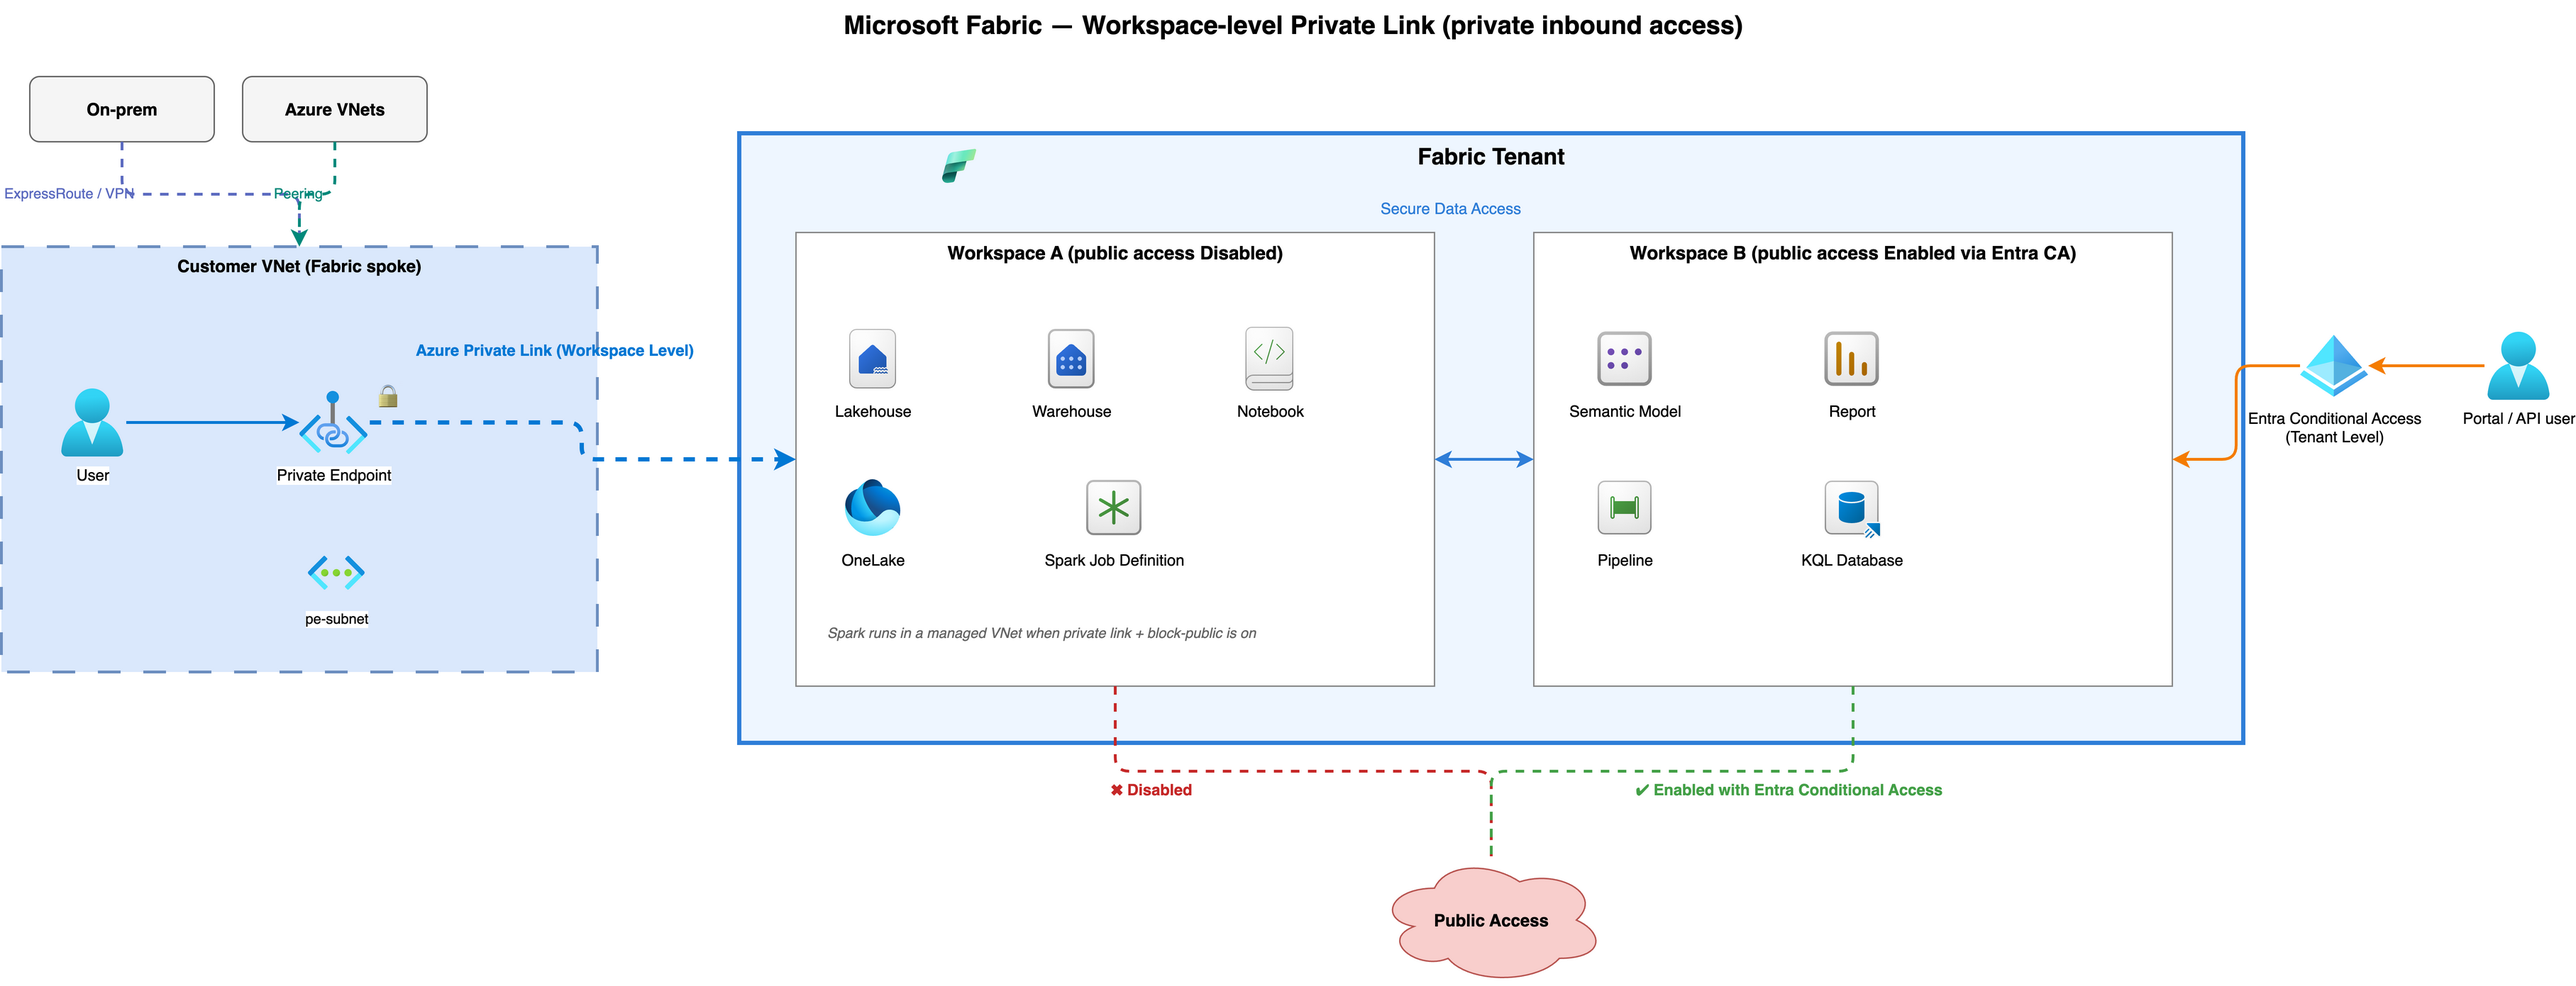
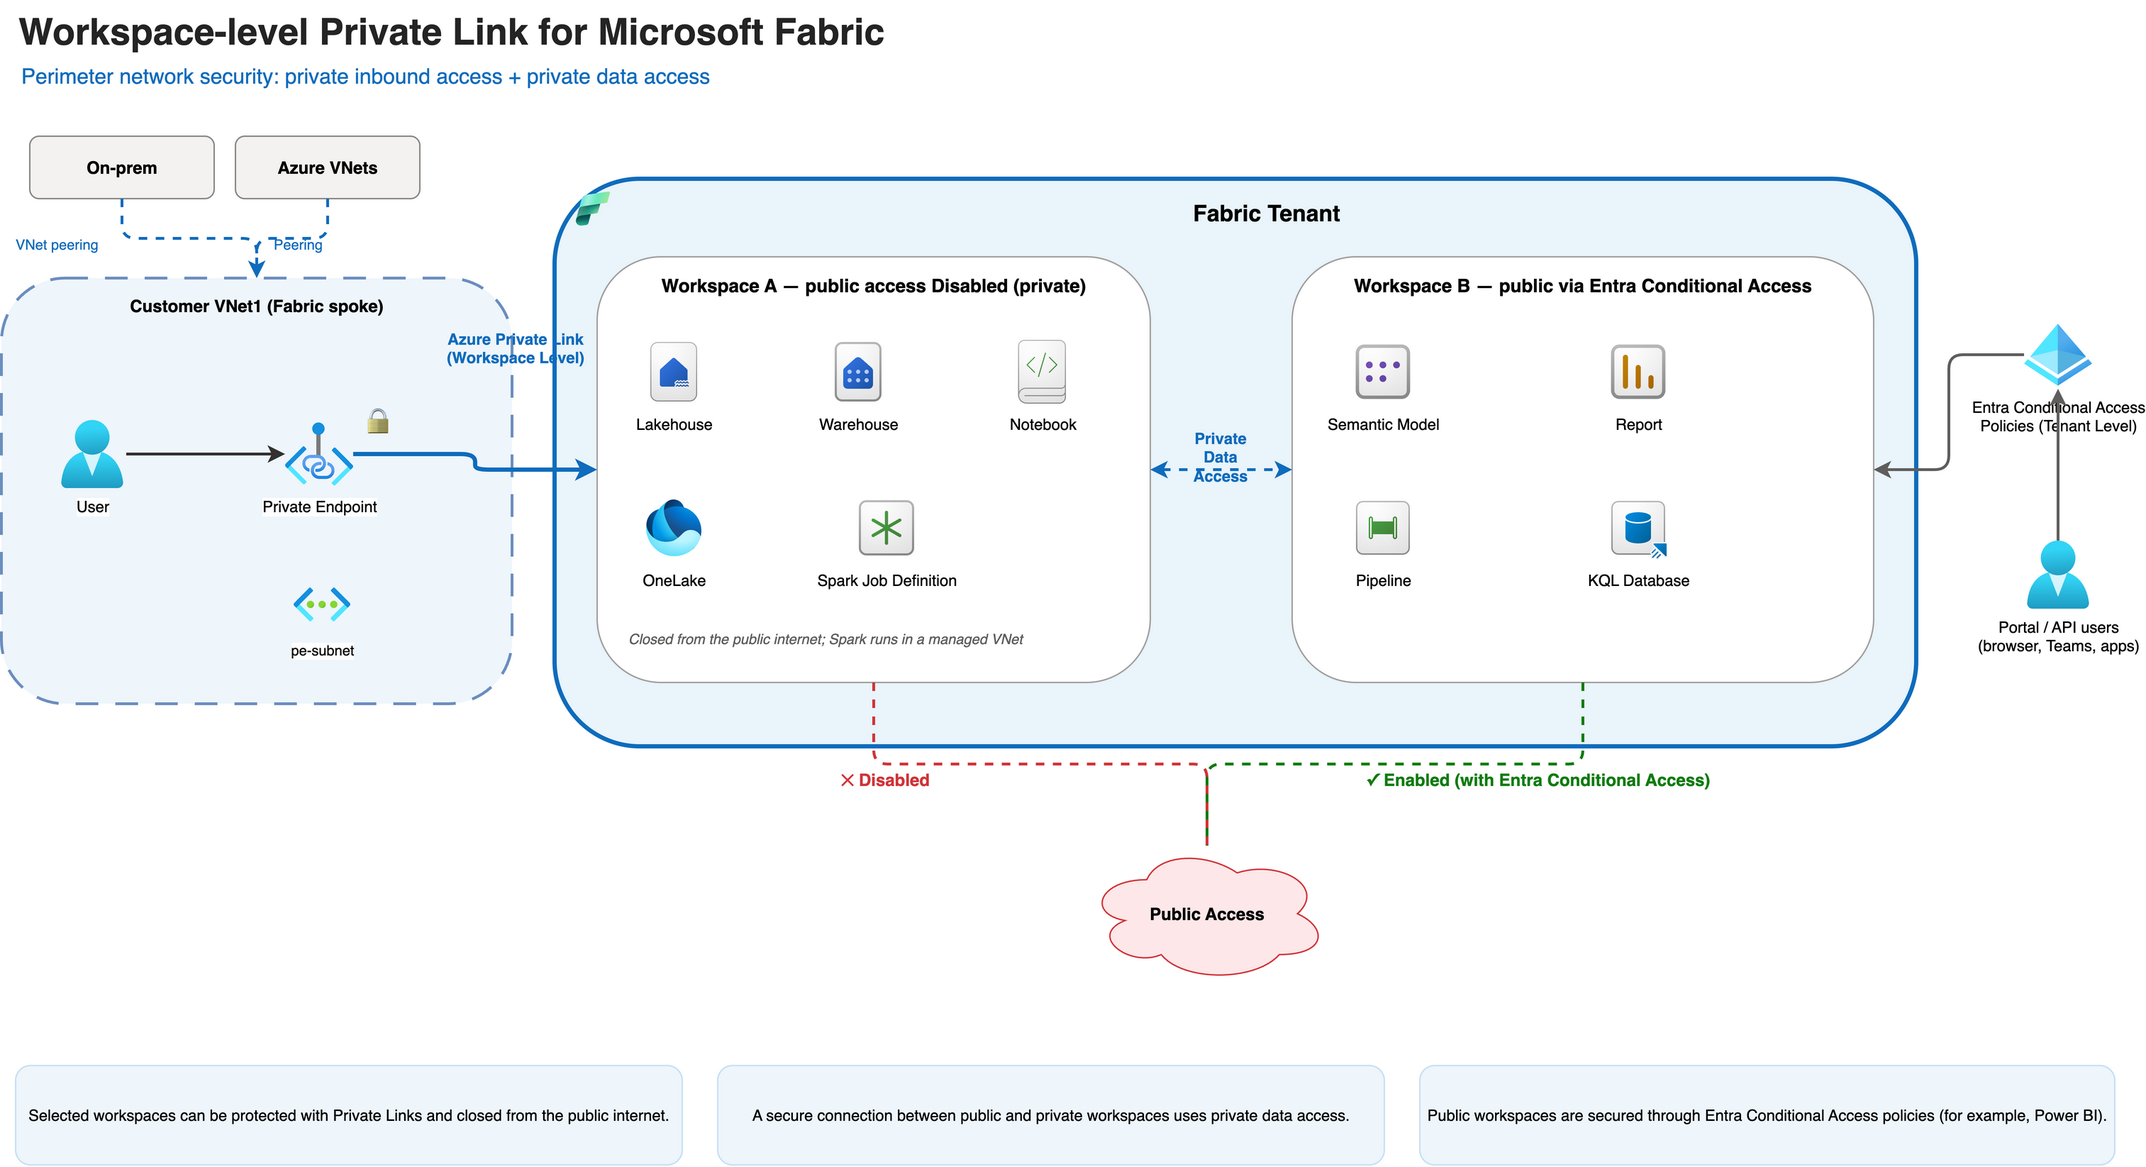
docs(diagram): redesign workspace Private Link topology (MS-style, peering LZ)
Rework gen-fabric-diagram.py to a polished Microsoft-style layout: title/subtitle,
On-prem + Azure VNets via VNet peering to Customer VNet1 (Fabric spoke) private
endpoint, Azure Private Link (Workspace Level) into the Fabric Tenant, Workspace A
(private, public access Disabled) and Workspace B (public via Entra CA) linked by
Private Data Access, Public Access globe (Disabled/Enabled), Entra Conditional
Access on the tenant edge, and explanatory captions. Regenerated drawio + rendered
PNG (docs/images/05-fabric-private-link.png) used by the README Topology target.

diff --git a/scripts/gen-fabric-diagram.py b/scripts/gen-fabric-diagram.py
@@ -50,63 +50,71 @@ def az_icon(cell_id, label, az_path, x, y, w=48, h=48, fs=11):
 
 cells = []
 
-# title
-cells.append('<mxCell id="title" value="Microsoft Fabric — Workspace-level Private Link (private inbound access)" style="text;html=1;fontSize=18;fontStyle=1;align=center;" vertex="1" parent="1"><mxGeometry x="500" y="16" width="900" height="30" as="geometry"/></mxCell>')
+# ---- title + subtitle ----
+cells.append('<mxCell id="title" value="Workspace-level Private Link for Microsoft Fabric" style="text;html=1;fontSize=26;fontStyle=1;align=left;fontColor=#242424;" vertex="1" parent="1"><mxGeometry x="60" y="24" width="1100" height="34" as="geometry"/></mxCell>')
+cells.append('<mxCell id="subtitle" value="Perimeter network security: private inbound access + private data access" style="text;html=1;fontSize=15;align=left;fontColor=#0f6cbd;" vertex="1" parent="1"><mxGeometry x="62" y="62" width="1100" height="24" as="geometry"/></mxCell>')
 
-# sources
-cells.append('<mxCell id="onprem" value="On-prem" style="rounded=1;whiteSpace=wrap;html=1;fontSize=12;fontStyle=1;fillColor=#f5f5f5;strokeColor=#666666;" vertex="1" parent="1"><mxGeometry x="60" y="70" width="130" height="46" as="geometry"/></mxCell>')
-cells.append('<mxCell id="azvnets" value="Azure VNets" style="rounded=1;whiteSpace=wrap;html=1;fontSize=12;fontStyle=1;fillColor=#f5f5f5;strokeColor=#666666;" vertex="1" parent="1"><mxGeometry x="210" y="70" width="130" height="46" as="geometry"/></mxCell>')
+# ---- sources ----
+cells.append('<mxCell id="onprem" value="On-prem" style="rounded=1;whiteSpace=wrap;html=1;fontSize=12;fontStyle=1;fillColor=#f3f2f1;strokeColor=#8a8886;" vertex="1" parent="1"><mxGeometry x="70" y="120" width="130" height="44" as="geometry"/></mxCell>')
+cells.append('<mxCell id="azvnets" value="Azure VNets" style="rounded=1;whiteSpace=wrap;html=1;fontSize=12;fontStyle=1;fillColor=#f3f2f1;strokeColor=#8a8886;" vertex="1" parent="1"><mxGeometry x="215" y="120" width="130" height="44" as="geometry"/></mxCell>')
 
-# customer vnet (fabric spoke)
-cells.append('<mxCell id="custvnet" value="Customer VNet (Fabric spoke)" style="rounded=0;whiteSpace=wrap;html=1;verticalAlign=top;fontSize=12;fontStyle=1;dashed=1;dashPattern=8 8;strokeWidth=2;fillColor=#dae8fc;strokeColor=#6c8ebf;" vertex="1" parent="1"><mxGeometry x="40" y="190" width="420" height="300" as="geometry"/></mxCell>')
-cells.append(az_icon("user", "User", "identity/Users.svg", 80, 290))
-cells.append(az_icon("pe", "Private Endpoint", "networking/Private_Link.svg", 250, 290))
-cells.append('<mxCell id="lock" value="🔒" style="text;html=1;fontSize=18;align=center;" vertex="1" parent="1"><mxGeometry x="300" y="278" width="24" height="24" as="geometry"/></mxCell>')
-cells.append(az_icon("vneticon", "pe-subnet", "networking/Virtual_Networks.svg", 256, 400, 40, 40, 10))
+# ---- customer vnet (fabric spoke) ----
+cells.append('<mxCell id="custvnet" value="Customer VNet1 (Fabric spoke)" style="rounded=1;whiteSpace=wrap;html=1;verticalAlign=top;fontSize=12;fontStyle=1;dashed=1;dashPattern=8 6;strokeWidth=2;fillColor=#eef6fc;strokeColor=#6c8ebf;spacingTop=6;" vertex="1" parent="1"><mxGeometry x="50" y="220" width="360" height="300" as="geometry"/></mxCell>')
+cells.append(az_icon("user", "User", "identity/Users.svg", 90, 320))
+cells.append(az_icon("pe", "Private Endpoint", "networking/Private_Link.svg", 250, 320))
+cells.append('<mxCell id="lock" value="&#128274;" style="text;html=1;fontSize=20;align=center;" vertex="1" parent="1"><mxGeometry x="302" y="302" width="26" height="26" as="geometry"/></mxCell>')
+cells.append(az_icon("vneticon", "pe-subnet", "networking/Virtual_Networks.svg", 256, 430, 40, 40, 10))
 
-# right-side identity
-cells.append(az_icon("euser", "Portal / API user", "identity/Users.svg", 1790, 250))
-cells.append(az_icon("entra", "Entra Conditional Access&#10;(Tenant Level)", "identity/Azure_Active_Directory.svg", 1660, 250))
+# ---- right-side identity + clients ----
+cells.append(az_icon("entra", "Entra Conditional Access&#10;Policies (Tenant Level)", "identity/Azure_Active_Directory.svg", 1476, 250, 48, 48, 11))
+cells.append(az_icon("euser", "Portal / API users&#10;(browser, Teams, apps)", "identity/Users.svg", 1476, 405, 48, 48, 11))
 
-# fabric tenant
-cells.append('<mxCell id="fabric" value="Fabric Tenant" style="rounded=0;whiteSpace=wrap;html=1;verticalAlign=top;fontSize=16;fontStyle=1;fillColor=#eef6ff;strokeColor=#2f7ed8;strokeWidth=3;" vertex="1" parent="1"><mxGeometry x="560" y="110" width="1060" height="430" as="geometry"/></mxCell>')
-cells.append(icon("flogo", "", "fabric_20_color.svg", 700, 118, 30, 30))
+# ---- fabric tenant ----
+cells.append('<mxCell id="fabric" value="Fabric Tenant" style="rounded=1;whiteSpace=wrap;html=1;verticalAlign=top;fontSize=16;fontStyle=1;fillColor=#e9f4fb;strokeColor=#0f6cbd;strokeWidth=3;spacingLeft=44;spacingTop=8;" vertex="1" parent="1"><mxGeometry x="440" y="150" width="960" height="400" as="geometry"/></mxCell>')
+cells.append(icon("flogo", "", "fabric_20_color.svg", 452, 156, 30, 30))
 
-# workspace A
-cells.append('<mxCell id="wsA" value="Workspace A  (public access Disabled)" style="rounded=0;whiteSpace=wrap;html=1;verticalAlign=top;fontSize=13;fontStyle=1;fillColor=#ffffff;strokeColor=#888888;" vertex="1" parent="1"><mxGeometry x="600" y="180" width="450" height="320" as="geometry"/></mxCell>')
-cells.append(icon("a_lh", "Lakehouse", "lakehouse_64_item.svg", 630, 245))
-cells.append(icon("a_wh", "Warehouse", "data_warehouse_32_item.svg", 770, 245))
-cells.append(icon("a_nb", "Notebook", "notebook_64_item.svg", 910, 245))
-cells.append(icon("a_ol", "OneLake", "one_lake_24_color.svg", 630, 350))
-cells.append(icon("a_sj", "Spark Job Definition", "spark_job_direction_32_item.svg", 800, 350))
-cells.append('<mxCell id="a_note" value="Spark runs in a managed VNet when private link + block-public is on" style="text;html=1;fontSize=10;fontStyle=2;fontColor=#666666;align=left;" vertex="1" parent="1"><mxGeometry x="620" y="450" width="420" height="30" as="geometry"/></mxCell>')
+# ---- workspace A (private) ----
+cells.append('<mxCell id="wsA" value="Workspace A &#8212; public access Disabled (private)" style="rounded=1;whiteSpace=wrap;html=1;verticalAlign=top;fontSize=13;fontStyle=1;fillColor=#ffffff;strokeColor=#a19f9d;spacingTop=6;" vertex="1" parent="1"><mxGeometry x="470" y="205" width="390" height="300" as="geometry"/></mxCell>')
+cells.append(icon("a_lh", "Lakehouse", "lakehouse_64_item.svg", 500, 262))
+cells.append(icon("a_wh", "Warehouse", "data_warehouse_32_item.svg", 630, 262))
+cells.append(icon("a_nb", "Notebook", "notebook_64_item.svg", 760, 262))
+cells.append(icon("a_ol", "OneLake", "one_lake_24_color.svg", 500, 372))
+cells.append(icon("a_sj", "Spark Job Definition", "spark_job_direction_32_item.svg", 650, 372))
+cells.append('<mxCell id="a_note" value="Closed from the public internet; Spark runs in a managed VNet" style="text;html=1;fontSize=10;fontStyle=2;fontColor=#605e5c;align=left;" vertex="1" parent="1"><mxGeometry x="490" y="462" width="360" height="30" as="geometry"/></mxCell>')
 
-# workspace B
-cells.append('<mxCell id="wsB" value="Workspace B  (public access Enabled via Entra CA)" style="rounded=0;whiteSpace=wrap;html=1;verticalAlign=top;fontSize=13;fontStyle=1;fillColor=#ffffff;strokeColor=#888888;" vertex="1" parent="1"><mxGeometry x="1120" y="180" width="450" height="320" as="geometry"/></mxCell>')
-cells.append(icon("b_sm", "Semantic Model", "semantic_model_20_item.svg", 1160, 245))
-cells.append(icon("b_rp", "Report", "report_20_item.svg", 1320, 245))
-cells.append(icon("b_pl", "Pipeline", "pipeline_48_item.svg", 1160, 350))
-cells.append(icon("b_kql", "KQL Database", "kql_database_48_item.svg", 1320, 350))
+# ---- private data access (between A and B) ----
+cells.append('<mxCell id="e_sda_l" value="Private&#10;Data&#10;Access" style="text;html=1;fontSize=11;fontColor=#0f6cbd;fontStyle=1;align=center;" vertex="1" parent="1"><mxGeometry x="866" y="320" width="86" height="54" as="geometry"/></mxCell>')
 
-# public access
-cells.append('<mxCell id="pub" value="Public Access" style="shape=cloud;whiteSpace=wrap;html=1;fillColor=#f8cecc;strokeColor=#b85450;fontSize=12;fontStyle=1;" vertex="1" parent="1"><mxGeometry x="1010" y="620" width="160" height="90" as="geometry"/></mxCell>')
+# ---- workspace B (public via Entra CA) ----
+cells.append('<mxCell id="wsB" value="Workspace B &#8212; public via Entra Conditional Access" style="rounded=1;whiteSpace=wrap;html=1;verticalAlign=top;fontSize=13;fontStyle=1;fillColor=#ffffff;strokeColor=#a19f9d;spacingTop=6;" vertex="1" parent="1"><mxGeometry x="960" y="205" width="410" height="300" as="geometry"/></mxCell>')
+cells.append(icon("b_sm", "Semantic Model", "semantic_model_20_item.svg", 1000, 262))
+cells.append(icon("b_rp", "Report", "report_20_item.svg", 1180, 262))
+cells.append(icon("b_pl", "Pipeline", "pipeline_48_item.svg", 1000, 372))
+cells.append(icon("b_kql", "KQL Database", "kql_database_48_item.svg", 1180, 372))
 
-# edges
-cells.append('<mxCell id="e_onprem" style="edgeStyle=orthogonalEdgeStyle;html=1;strokeColor=#5C6BC0;strokeWidth=2;dashed=1;endArrow=classic;fontSize=10;" edge="1" parent="1" source="onprem" target="custvnet"><mxGeometry relative="1" as="geometry"/></mxCell>')
-cells.append('<mxCell id="e_onprem_l" value="ExpressRoute / VPN" style="text;html=1;fontSize=10;fontColor=#5C6BC0;" vertex="1" parent="1"><mxGeometry x="40" y="140" width="130" height="18" as="geometry"/></mxCell>')
-cells.append('<mxCell id="e_peer" style="edgeStyle=orthogonalEdgeStyle;html=1;strokeColor=#00897B;strokeWidth=2;dashed=1;endArrow=classic;fontSize=10;" edge="1" parent="1" source="azvnets" target="custvnet"><mxGeometry relative="1" as="geometry"/></mxCell>')
-cells.append('<mxCell id="e_peer_l" value="Peering" style="text;html=1;fontSize=10;fontColor=#00897B;" vertex="1" parent="1"><mxGeometry x="230" y="140" width="90" height="18" as="geometry"/></mxCell>')
-cells.append('<mxCell id="e_user" style="edgeStyle=orthogonalEdgeStyle;html=1;strokeColor=#0078D4;strokeWidth=2;endArrow=classic;" edge="1" parent="1" source="user" target="pe"><mxGeometry relative="1" as="geometry"/></mxCell>')
-cells.append('<mxCell id="e_pl" style="edgeStyle=orthogonalEdgeStyle;html=1;strokeColor=#0078D4;strokeWidth=3;endArrow=classic;flowAnimation=1;" edge="1" parent="1" source="pe" target="wsA"><mxGeometry relative="1" as="geometry"/></mxCell>')
-cells.append('<mxCell id="e_pl_l" value="Azure Private Link (Workspace Level)" style="text;html=1;fontSize=11;fontColor=#0078D4;fontStyle=1;" vertex="1" parent="1"><mxGeometry x="330" y="250" width="260" height="18" as="geometry"/></mxCell>')
-cells.append('<mxCell id="e_sda" style="edgeStyle=orthogonalEdgeStyle;html=1;strokeColor=#2f7ed8;strokeWidth=2;startArrow=classic;endArrow=classic;" edge="1" parent="1" source="wsA" target="wsB"><mxGeometry relative="1" as="geometry"/></mxCell>')
-cells.append('<mxCell id="e_sda_l" value="Secure Data Access" style="text;html=1;fontSize=11;fontColor=#2f7ed8;" vertex="1" parent="1"><mxGeometry x="1010" y="150" width="150" height="18" as="geometry"/></mxCell>')
-cells.append('<mxCell id="e_pubA" style="edgeStyle=orthogonalEdgeStyle;html=1;strokeColor=#C62828;strokeWidth=2;dashed=1;endArrow=none;" edge="1" parent="1" source="wsA" target="pub"><mxGeometry relative="1" as="geometry"/></mxCell>')
-cells.append('<mxCell id="e_pubA_l" value="✖ Disabled" style="text;html=1;fontSize=11;fontColor=#C62828;fontStyle=1;" vertex="1" parent="1"><mxGeometry x="820" y="560" width="120" height="18" as="geometry"/></mxCell>')
-cells.append('<mxCell id="e_pubB" style="edgeStyle=orthogonalEdgeStyle;html=1;strokeColor=#43A047;strokeWidth=2;dashed=1;endArrow=none;" edge="1" parent="1" source="wsB" target="pub"><mxGeometry relative="1" as="geometry"/></mxCell>')
-cells.append('<mxCell id="e_pubB_l" value="✔ Enabled with Entra Conditional Access" style="text;html=1;fontSize=11;fontColor=#43A047;fontStyle=1;" vertex="1" parent="1"><mxGeometry x="1190" y="560" width="290" height="18" as="geometry"/></mxCell>')
-cells.append('<mxCell id="e_euser" style="edgeStyle=orthogonalEdgeStyle;html=1;strokeColor=#F57C00;strokeWidth=2;endArrow=classic;" edge="1" parent="1" source="euser" target="entra"><mxGeometry relative="1" as="geometry"/></mxCell>')
-cells.append('<mxCell id="e_entra" style="edgeStyle=orthogonalEdgeStyle;html=1;strokeColor=#F57C00;strokeWidth=2;endArrow=classic;" edge="1" parent="1" source="entra" target="wsB"><mxGeometry relative="1" as="geometry"/></mxCell>')
+# ---- public access globe ----
+cells.append('<mxCell id="pub" value="Public Access" style="shape=cloud;whiteSpace=wrap;html=1;fillColor=#fde7e9;strokeColor=#d13438;fontSize=12;fontStyle=1;" vertex="1" parent="1"><mxGeometry x="815" y="620" width="170" height="96" as="geometry"/></mxCell>')
+
+# ---- edges ----
+cells.append('<mxCell id="e_onprem" style="edgeStyle=orthogonalEdgeStyle;rounded=1;html=1;strokeColor=#0f6cbd;strokeWidth=2;dashed=1;endArrow=classic;" edge="1" parent="1" source="onprem" target="custvnet"><mxGeometry relative="1" as="geometry"/></mxCell>')
+cells.append('<mxCell id="e_onprem_l" value="VNet peering" style="text;html=1;fontSize=10;fontColor=#0f6cbd;" vertex="1" parent="1"><mxGeometry x="58" y="184" width="120" height="18" as="geometry"/></mxCell>')
+cells.append('<mxCell id="e_peer" style="edgeStyle=orthogonalEdgeStyle;rounded=1;html=1;strokeColor=#0f6cbd;strokeWidth=2;dashed=1;endArrow=classic;" edge="1" parent="1" source="azvnets" target="custvnet"><mxGeometry relative="1" as="geometry"/></mxCell>')
+cells.append('<mxCell id="e_peer_l" value="Peering" style="text;html=1;fontSize=10;fontColor=#0f6cbd;" vertex="1" parent="1"><mxGeometry x="240" y="184" width="90" height="18" as="geometry"/></mxCell>')
+cells.append('<mxCell id="e_user" style="edgeStyle=orthogonalEdgeStyle;rounded=1;html=1;strokeColor=#323130;strokeWidth=2;endArrow=classic;" edge="1" parent="1" source="user" target="pe"><mxGeometry relative="1" as="geometry"/></mxCell>')
+cells.append('<mxCell id="e_pl" style="edgeStyle=orthogonalEdgeStyle;rounded=1;html=1;strokeColor=#0f6cbd;strokeWidth=3;endArrow=classic;" edge="1" parent="1" source="pe" target="wsA"><mxGeometry relative="1" as="geometry"/></mxCell>')
+cells.append('<mxCell id="e_pl_l" value="Azure Private Link&#10;(Workspace Level)" style="text;html=1;fontSize=11;fontColor=#0f6cbd;fontStyle=1;align=center;" vertex="1" parent="1"><mxGeometry x="352" y="250" width="120" height="34" as="geometry"/></mxCell>')
+cells.append('<mxCell id="e_sda" style="edgeStyle=orthogonalEdgeStyle;rounded=1;html=1;strokeColor=#0f6cbd;strokeWidth=2;startArrow=classic;endArrow=classic;dashed=1;" edge="1" parent="1" source="wsA" target="wsB"><mxGeometry relative="1" as="geometry"/></mxCell>')
+cells.append('<mxCell id="e_pubA" style="edgeStyle=orthogonalEdgeStyle;rounded=1;html=1;strokeColor=#d13438;strokeWidth=2;dashed=1;endArrow=none;" edge="1" parent="1" source="wsA" target="pub"><mxGeometry relative="1" as="geometry"/></mxCell>')
+cells.append('<mxCell id="e_pubA_l" value="&#10005; Disabled" style="text;html=1;fontSize=12;fontColor=#d13438;fontStyle=1;" vertex="1" parent="1"><mxGeometry x="640" y="560" width="120" height="18" as="geometry"/></mxCell>')
+cells.append('<mxCell id="e_pubB" style="edgeStyle=orthogonalEdgeStyle;rounded=1;html=1;strokeColor=#107c10;strokeWidth=2;dashed=1;endArrow=none;" edge="1" parent="1" source="wsB" target="pub"><mxGeometry relative="1" as="geometry"/></mxCell>')
+cells.append('<mxCell id="e_pubB_l" value="&#10003; Enabled (with Entra Conditional Access)" style="text;html=1;fontSize=12;fontColor=#107c10;fontStyle=1;" vertex="1" parent="1"><mxGeometry x="1010" y="560" width="320" height="18" as="geometry"/></mxCell>')
+cells.append('<mxCell id="e_euser" style="edgeStyle=orthogonalEdgeStyle;rounded=1;html=1;strokeColor=#605e5c;strokeWidth=2;endArrow=classic;" edge="1" parent="1" source="euser" target="entra"><mxGeometry relative="1" as="geometry"/></mxCell>')
+cells.append('<mxCell id="e_entra" style="edgeStyle=orthogonalEdgeStyle;rounded=1;html=1;strokeColor=#605e5c;strokeWidth=2;endArrow=classic;" edge="1" parent="1" source="entra" target="wsB"><mxGeometry relative="1" as="geometry"/></mxCell>')
+
+# ---- bottom captions ----
+cells.append('<mxCell id="cap1" value="Selected workspaces can be protected with Private Links and closed from the public internet." style="rounded=1;whiteSpace=wrap;html=1;fontSize=11;align=center;verticalAlign=middle;fillColor=#eef6fc;strokeColor=#c7e0f4;" vertex="1" parent="1"><mxGeometry x="60" y="775" width="470" height="70" as="geometry"/></mxCell>')
+cells.append('<mxCell id="cap2" value="A secure connection between public and private workspaces uses private data access." style="rounded=1;whiteSpace=wrap;html=1;fontSize=11;align=center;verticalAlign=middle;fillColor=#eef6fc;strokeColor=#c7e0f4;" vertex="1" parent="1"><mxGeometry x="555" y="775" width="470" height="70" as="geometry"/></mxCell>')
+cells.append('<mxCell id="cap3" value="Public workspaces are secured through Entra Conditional Access policies (for example, Power BI)." style="rounded=1;whiteSpace=wrap;html=1;fontSize=11;align=center;verticalAlign=middle;fillColor=#eef6fc;strokeColor=#c7e0f4;" vertex="1" parent="1"><mxGeometry x="1050" y="775" width="490" height="70" as="geometry"/></mxCell>')
 
 body = "\n        ".join(cells)
 xml = (
@@ -114,7 +122,7 @@ xml = (
     '  <diagram name="FabricPrivateLink" id="fab-1">\n'
     '    <mxGraphModel dx="1422" dy="820" grid="0" gridSize="10" guides="1" '
     'tooltips="1" connect="1" arrows="1" fold="1" page="1" pageScale="1" '
-    'pageWidth="1880" pageHeight="820" math="0" shadow="0">\n'
+    'pageWidth="1620" pageHeight="900" math="0" shadow="0">\n'
     "      <root>\n"
     '        <mxCell id="0"/>\n'
     '        <mxCell id="1" parent="0"/>\n'
